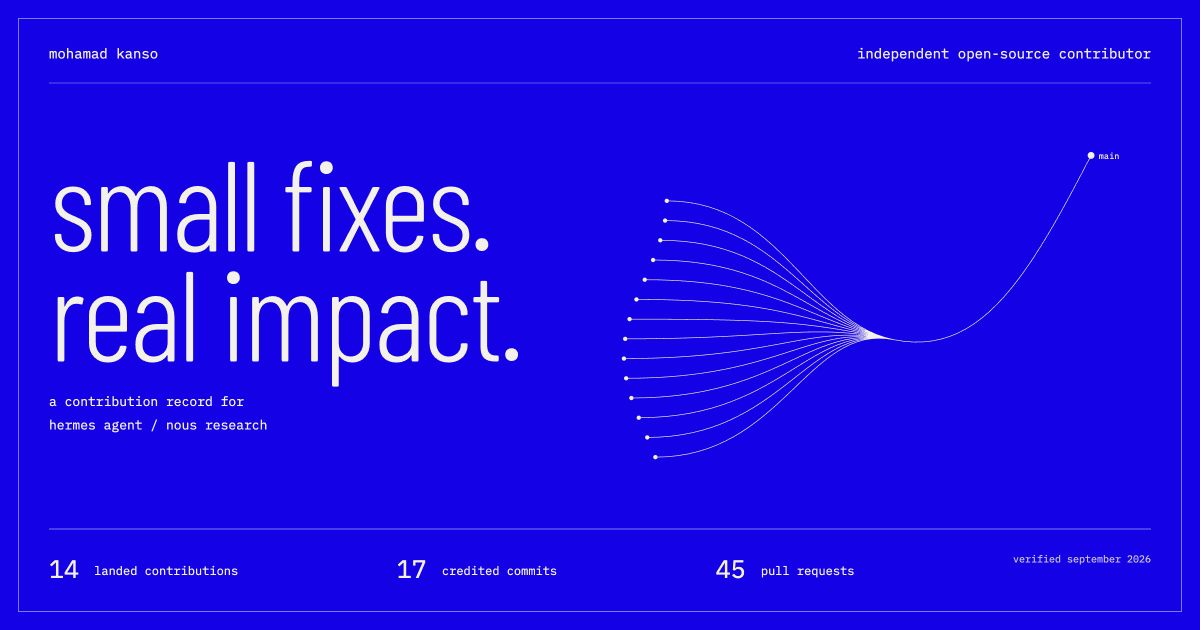
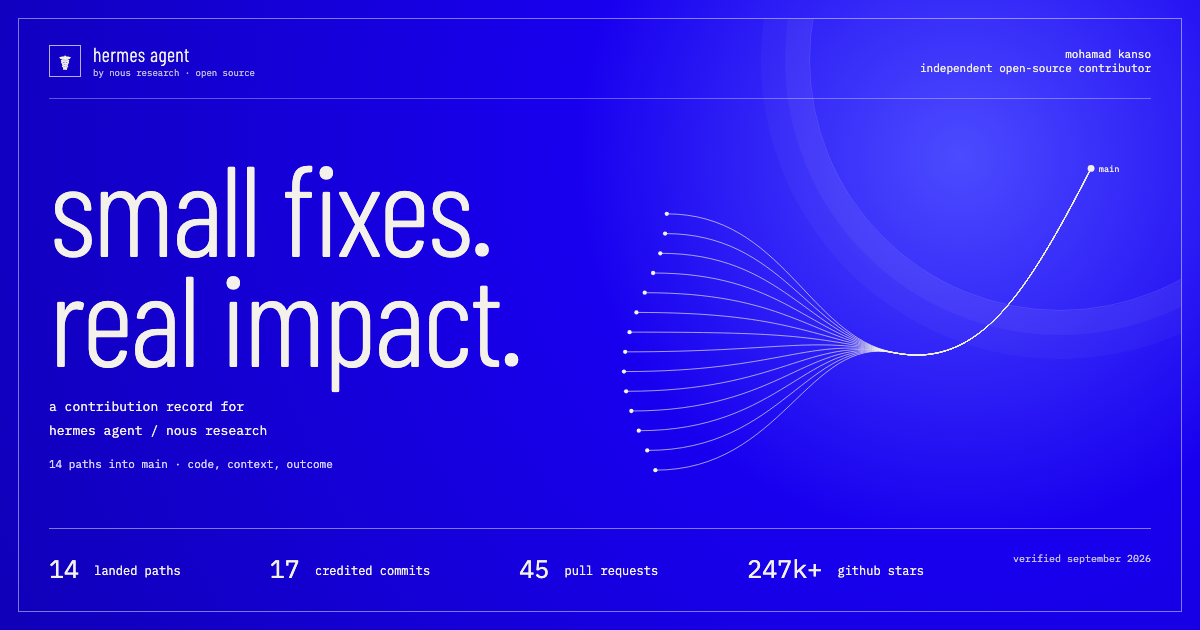
add hermes identity to portfolio hero

diff --git a/public/share.html b/public/share.html
@@ -19,7 +19,12 @@
       }
       body {
         margin: 0;
-        background: #1800ef;
+        background: radial-gradient(
+          circle at 80% 25%,
+          #4c4bff 0,
+          #1800ef 36%,
+          #1000b8 100%
+        );
         color: #f3f1e9;
         width: 1200px;
         height: 630px;
@@ -33,22 +38,71 @@
         position: relative;
         overflow: hidden;
       }
+      .frame:before {
+        content: "";
+        position: absolute;
+        width: 500px;
+        height: 500px;
+        right: -130px;
+        top: -210px;
+        border: 1px solid #ffffff22;
+        border-radius: 50%;
+        box-shadow:
+          0 0 0 24px #ffffff0b,
+          0 0 0 48px #ffffff08;
+      }
       header {
         font-size: 14px;
         display: flex;
         justify-content: space-between;
+        align-items: center;
         border-bottom: 1px solid #ffffff55;
         padding-bottom: 20px;
       }
+      .identity {
+        display: flex;
+        align-items: center;
+        gap: 12px;
+      }
+      .identity-mark {
+        width: 32px;
+        height: 32px;
+        display: grid;
+        place-items: center;
+        border: 1px solid #ffffffb0;
+        font: 21px/1 display;
+      }
+      .identity-copy {
+        display: flex;
+        flex-direction: column;
+        gap: 3px;
+      }
+      .identity-copy strong {
+        font: 400 20px/1 display;
+        letter-spacing: 0.02em;
+      }
+      .identity-copy small {
+        font-size: 9px;
+        opacity: 0.78;
+      }
+      .header-role {
+        font-size: 11px;
+        text-align: right;
+      }
       h1 {
         font: 300 128px/0.86 display;
-        margin: 62px 0 24px;
+        margin: 52px 0 24px;
         letter-spacing: -3px;
       }
       p {
         font-size: 13px;
         line-height: 1.8;
         max-width: 365px;
+      }
+      .project-line {
+        color: #d8d2ff;
+        font-size: 11px;
+        margin-top: 10px;
       }
       .stats {
         position: absolute;
@@ -70,7 +124,7 @@
       svg {
         position: absolute;
         right: 36px;
-        top: 115px;
+        top: 128px;
         width: 545px;
         height: 360px;
         overflow: visible;
@@ -96,11 +150,19 @@
   <body>
     <div class="frame">
       <header>
-        <span>mohamad kanso</span
-        ><span>independent open-source contributor</span>
+        <span class="identity"
+          ><span class="identity-mark">☤</span
+          ><span class="identity-copy"
+            ><strong>hermes agent</strong
+            ><small>by nous research · open source</small></span
+          ></span
+        ><span class="header-role"
+          >mohamad kanso<br />independent open-source contributor</span
+        >
       </header>
       <h1>small fixes.<br />real impact.</h1>
       <p>a contribution record for<br />hermes agent / nous research</p>
+      <p class="project-line">14 paths into main · code, context, outcome</p>
       <svg viewBox="0 0 600 420" aria-label="contribution paths">
         <g id="lines"></g>
         <circle cx="555" cy="25" r="4" />
@@ -118,7 +180,7 @@
         })
         .join("");
       document.querySelector("#stats").innerHTML =
-        `<span><strong>${d.metrics.landed}</strong> landed contributions</span><span><strong>${d.metrics.authoredMain + d.metrics.coauthoredMain}</strong> credited commits</span><span><strong>${d.metrics.prs}</strong> pull requests</span><small>verified september 2026</small>`;
+        `<span><strong>${d.metrics.landed}</strong> landed paths</span><span><strong>${d.metrics.authoredMain + d.metrics.coauthoredMain}</strong> credited commits</span><span><strong>${d.metrics.prs}</strong> pull requests</span><span><strong>247k+</strong> github stars</span><small>verified september 2026</small>`;
     </script>
   </body>
 </html>

diff --git a/src/main.js b/src/main.js
@@ -17,6 +17,7 @@ const outArrow =
 const ext = (url, label, cls = "text-link") =>
   `<a class="${cls}" href="${e(url)}" target="_blank" rel="noopener noreferrer">${label}${outArrow}</a>`;
 const ghPR = (n) => `https://github.com/NousResearch/hermes-agent/pull/${n}`;
+const hermesSite = "https://hermes-agent.nousresearch.com/";
 const outcomeLabel = (p) =>
   p.landed
     ? p.landed.kind === "authored"
@@ -75,7 +76,7 @@ function renderPage() {
   <section class="hero blue" id="top">
     <div class="hero-frame">
       <header class="header"><a class="wordmark" href="#top" aria-label="mohamad kanso home"><span class="mark" aria-hidden="true">m/k</span> mohamad kanso</a><nav aria-label="main navigation"><a href="#work">work</a><a href="#credits">credits</a><a href="#archive">archive</a>${ext("https://github.com/MohamadKanso", "github", "nav-github")}</nav></header>
-      <div class="hero-content"><div class="hero-copy"><p class="overline"><span class="status-dot"></span> independent open-source contributor</p><h1>small fixes.<br><strong>real impact.</strong></h1><p class="hero-intro">i contribute to hermes agent, the open-source agent from nous research. here’s the work and the path into main.</p><a class="button hero-cta" href="#work">explore the work ${arrow}</a><a class="project-link" href="https://github.com/NousResearch/hermes-agent" target="_blank" rel="noopener noreferrer">hermes agent / nous research ${outArrow}</a></div>
+      <div class="hero-content"><div class="hero-copy"><a class="hero-project" href="${hermesSite}" target="_blank" rel="noopener noreferrer" aria-label="visit Hermes Agent by Nous Research"><span class="hero-project-emblem" aria-hidden="true">☤</span><span class="hero-project-copy"><strong>hermes agent</strong><small>by nous research · open source</small></span>${outArrow}</a><p class="overline"><span class="status-dot"></span> independent open-source contributor</p><h1>small fixes.<br><strong>real impact.</strong></h1><p class="hero-intro">i contribute to hermes agent, the open-source agent from nous research. here’s the work and the path into main.</p><a class="button hero-cta" href="#work">explore the work ${arrow}</a><a class="project-link" href="https://github.com/NousResearch/hermes-agent" target="_blank" rel="noopener noreferrer">hermes agent / nous research ${outArrow}</a></div>
       <div class="map-wrap">${graph()}<div class="map-caption"><span id="map-caption">each point opens a real contribution</span><button id="motion-toggle" aria-pressed="true">motion on</button></div></div></div>
       <div class="hero-stats"><a href="#method"><strong>${m.landed.toString().padStart(2, "0")}</strong><span>landed contributions<small>through merged community prs</small></span></a><a href="#archive" data-jump="commits"><strong>${m.authoredMain + m.coauthoredMain}</strong><span>credited commits on main<small>8 authored + 9 co-authored</small></span></a><a href="#archive" data-jump="prs"><strong>${m.prs}</strong><span>pull requests opened<small>the full record, not just the wins</small></span></a></div>
     </div><div class="hero-foot"><span>field notes / 13–20 september 2026</span><span>snapshot checked ${displayDate(data.checkedAt)}</span></div>

diff --git a/src/style.css b/src/style.css
@@ -231,6 +231,49 @@ table,
   position: relative;
   z-index: 1;
 }
+.hero-project {
+  width: fit-content;
+  display: inline-flex;
+  align-items: center;
+  gap: 13px;
+  padding: 9px 12px 9px 9px;
+  border: 1px solid #ffffff55;
+  color: #f3f1e9;
+  transition:
+    background 0.2s,
+    border-color 0.2s;
+}
+.hero-project:hover {
+  background: #ffffff12;
+  border-color: #ffffffa0;
+}
+.hero-project-emblem {
+  width: 38px;
+  height: 38px;
+  display: grid;
+  place-items: center;
+  border: 1px solid #ffffff9c;
+  font: 24px/1 var(--display);
+}
+.hero-project-copy {
+  display: flex;
+  flex-direction: column;
+  gap: 2px;
+}
+.hero-project-copy strong {
+  font: 400 18px/1 var(--display);
+  letter-spacing: 0.01em;
+}
+.hero-project-copy small {
+  color: #d8d2ff;
+  font: 8px/1.4 var(--mono);
+  letter-spacing: 0.03em;
+}
+.hero-project > svg {
+  width: 16px;
+  height: 16px;
+  margin-left: 7px;
+}
 .hero h1 {
   font-family: var(--display);
   font-weight: 300;
@@ -1601,6 +1644,24 @@ html[data-motion="true"] .map-thread:nth-child(3n + 1) path:nth-child(3) {
   }
   .hero-copy {
     max-width: 520px;
+  }
+  .hero-project {
+    gap: 10px;
+    padding: 8px 10px 8px 8px;
+  }
+  .hero-project-emblem {
+    width: 34px;
+    height: 34px;
+    font-size: 22px;
+  }
+  .hero-project-copy strong {
+    font-size: 17px;
+  }
+  .hero-project-copy small {
+    font-size: 7px;
+  }
+  .hero-project > svg {
+    margin-left: 3px;
   }
   .hero .overline {
     font-size: 8px;
